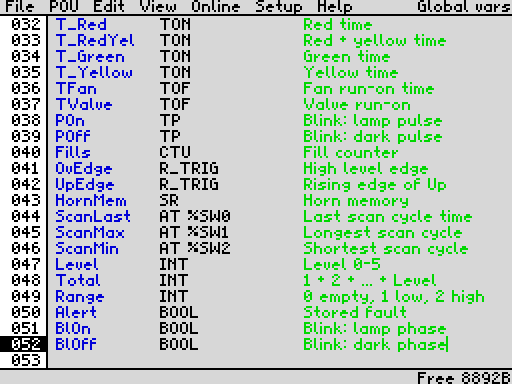
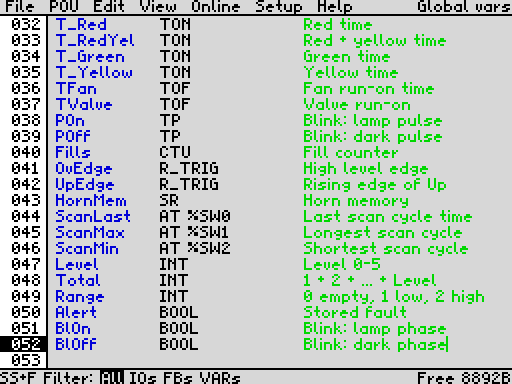
Global vars: SS+F filters All / IOs / FBs / VARs (shown in the status bar)
A row stored outside the filter switches it back to All; SPACE after
'AT' in the declaration is typed. The test and demo builds leave out
sym_edit.asm (sym_validate moved to sym_valid.asm). st_print starts
without an open inverted run (a clipped text left it open).

Claude-Session: https://claude.ai/code/session_01VKWfWedvrUMzzGZ6BCaduV

Changed region(s): [[0.0, 0.9375, 0.4688, 1.0]]

diff --git a/CLAUDE.md b/CLAUDE.md
@@ -274,7 +274,9 @@ editor and key for users.
   4 per type). An unknown name on an LD / FBD box is declared as a new instance (`ld_ask_operand.unk`).
   ST stores FB instance and variable names as text (they have no address). The tests declare the old
   names (`t_fbdecl`), the demo names everything (its `dm_syms` records `AR_GV,g,type,...` for variables).
-  The MKDEMO build has no sym_edit.asm (stubs `scr_sym`, `sym_validate`, `sy_xc`, `sy_end` in main.asm).
+  The page filters with SS+F (`sy_filt` All / IOs / FBs / VARs, `sy_match` / `sy_skip`, hint `sy_hint`).
+  The MKDEMO and TEST builds have no sym_edit.asm (`NO_SYMED`, stubs `scr_sym`, `sy_xc`, `sy_end` in
+  main.asm); `sym_validate` is in src/sym_valid.asm, always included.
 - **Global variables**:
   - A global is a record of the symbol table with area `AR_GV` (= AR_LV | 0x40), index = its number g
     (0..GV_MAX-1, a new one gets the number after the highest, `gv_new`) and its declaration after the

diff --git a/docs/MANUAL.md b/docs/MANUAL.md
@@ -571,6 +571,9 @@ steps, system words), then the FB instances, then the variables.
   `ton`. It is stored in the normal form (`AT %IX0.0`, `INT := 100`, `TON`); `: BOOL` after an address
   is accepted and left out. ENTER, UP and DOWN store the row; the empty last row adds one.
 * Clearing the name and the comment removes a row, as does Edit > Delete line.
+* **SS+F** filters the list: All, IOs (names on addresses), FBs (instances) or VARs (variables); the
+  status bar shows the filter. A row stored outside the filter switches it back to All.
+* SPACE goes from the name to the declaration and on to the comment; after `AT` it is typed as a space.
 * The names are used in every language instead of an address: `LD Start`, a contact `Alert`,
   `CAL T_Red(IN:=S_Red, PT:=T#4s)`, `Fills.CV`, `Level := Level + 1;` in ST. LD / FBD contacts and
   coils take `BOOL` variables, word operands any type.
